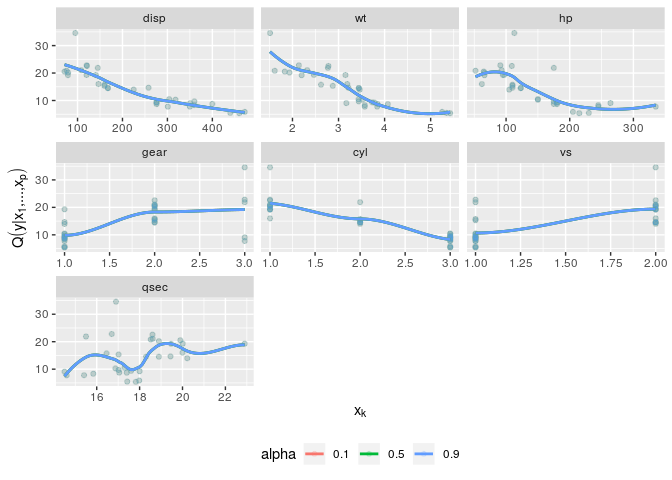
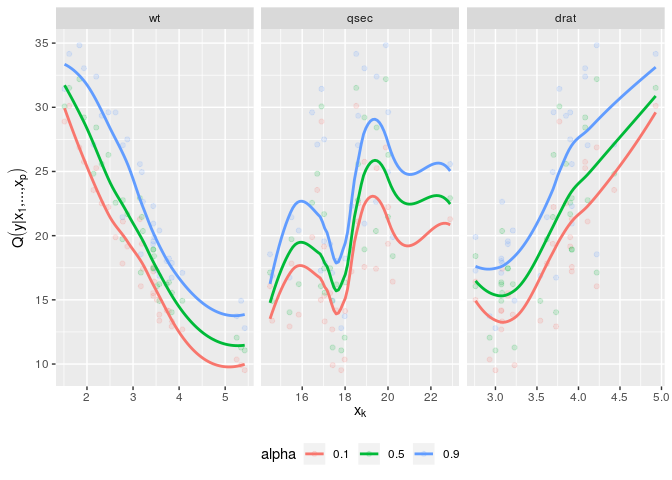
use nonpar in README

diff --git a/README.md b/README.md
@@ -44,20 +44,16 @@ for (var in c("cyl", "vs", "gear", "carb"))
 mtcars[["am"]] <- as.factor(mtcars[["am"]])
 
 # fit model
-(fit <- vinereg(mpg ~ ., data = mtcars))
-#> D-vine regression model: mpg | disp, wt, hp, gear, cyl, vs, qsec 
-#> nobs = 32, edf = 9, cll = -58.41, caic = 134.82, cbic = 148.01
+(fit <- vinereg(mpg ~ ., family = "nonpar", data = mtcars))
+#> D-vine regression model: mpg | wt, qsec, drat 
+#> nobs = 32, edf = 19.33, cll = -56.94, caic = 152.55, cbic = 180.88
 
 summary(fit)
-#>    var edf         cll        caic        cbic      p_value
-#> 1  mpg   0 -100.189867 200.3797334 200.3797334           NA
-#> 2 disp   1   27.086917 -52.1738350 -50.7080991 1.835143e-13
-#> 3   wt   1    2.676766  -3.3535326  -1.8877967 2.068033e-02
-#> 4   hp   1    3.983133  -5.9662654  -4.5005295 4.765716e-03
-#> 5 gear   1    1.392314  -0.7846281   0.6811078 9.517278e-02
-#> 6  cyl   2    3.116818  -2.2336361   0.6978357 4.429790e-02
-#> 7   vs   2    2.458009  -0.9160183   2.0154535 8.560521e-02
-#> 8 qsec   1    1.065405  -0.1308095   1.3349264 1.443645e-01
+#>    var       edf         cll       caic       cbic      p_value
+#> 1  mpg  0.000000 -100.189867 200.379733 200.379733           NA
+#> 2   wt 10.597257   29.409422 -37.624331 -22.091551 1.062440e-08
+#> 3 qsec  5.739523    7.867765  -4.256484   4.156141 1.286392e-02
+#> 4 drat  2.996463    5.973303  -5.953681  -1.561657 7.542848e-03
 
 # show marginal effects for all selected variables
 plot_effects(fit)
@@ -71,10 +67,10 @@ plot_effects(fit)
 # predict mean and median
 head(predict(fit, mtcars, alpha = c(NA, 0.5)), 4)
 #>       mean      0.5
-#> 1 15.76021 15.76021
-#> 2 15.33784 15.33784
-#> 3 21.06066 21.06066
-#> 4 14.64041 14.64041
+#> 1 23.33594 22.56025
+#> 2 22.30219 21.68133
+#> 3 25.71678 25.58609
+#> 4 20.21699 20.36290
 ```
 
 ## Vignettes
